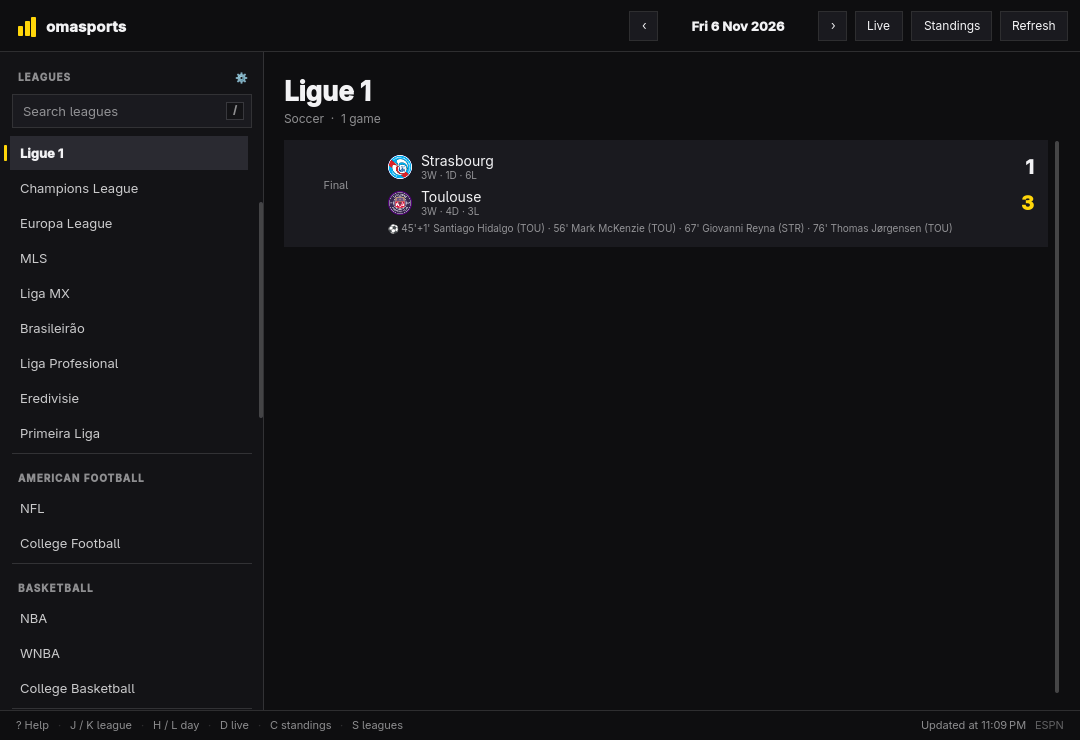
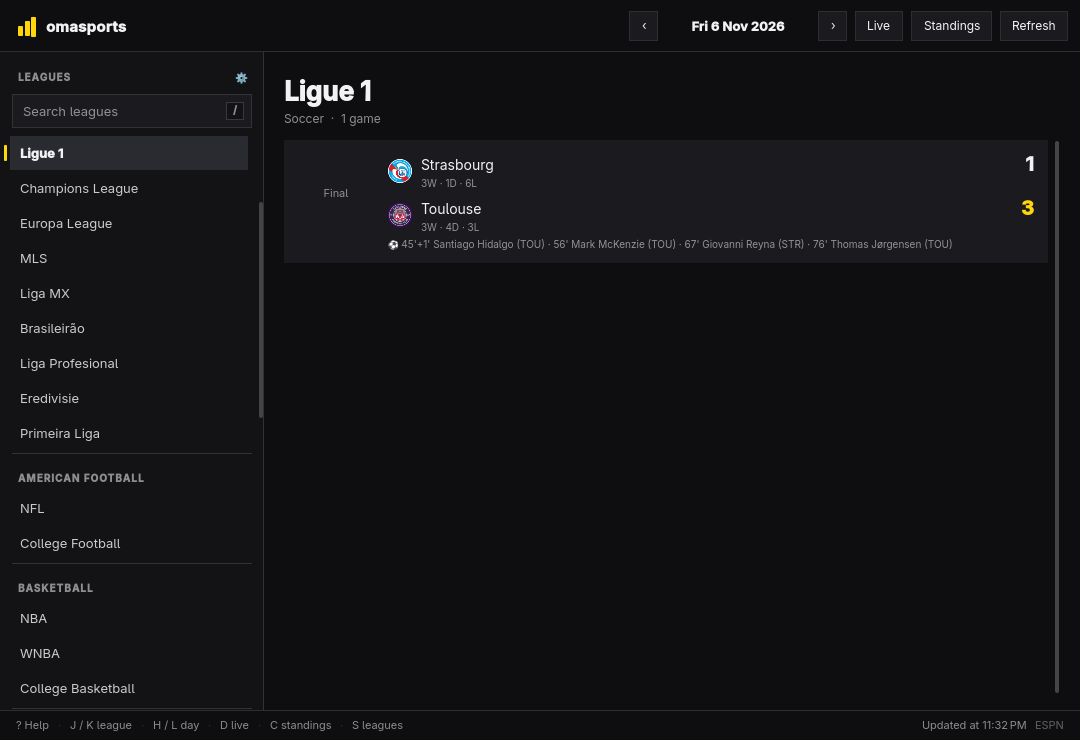
Align scores with the team name line

Changed region(s): [[0.3056, 0.1865, 0.8861, 0.3419], [0.8556, 0.9635, 0.9472, 0.9946], [0.9472, 0.2486, 0.9778, 0.2797]]

diff --git a/src/EventCard.qml b/src/EventCard.qml
@@ -113,12 +113,26 @@ Rectangle {
                             Layout.fillWidth: true
                             spacing: 0
 
-                            Text {
+                            RowLayout {
                                 Layout.fillWidth: true
-                                text: modelData.name
-                                color: theme.foreground
-                                font.pixelSize: 14
-                                elide: Text.ElideRight
+                                spacing: 8
+
+                                Text {
+                                    Layout.fillWidth: true
+                                    text: modelData.name
+                                    color: theme.foreground
+                                    font.pixelSize: 14
+                                    elide: Text.ElideRight
+                                }
+
+                                Text {
+                                    Layout.preferredWidth: 46
+                                    horizontalAlignment: Text.AlignRight
+                                    text: card.modelData.state === "pre" ? "" : modelData.score
+                                    color: modelData.winner ? theme.accent : theme.foreground
+                                    font.pixelSize: 20
+                                    font.bold: true
+                                }
                             }
 
                             Text {
@@ -129,16 +143,6 @@ Rectangle {
                                 font.pixelSize: 10
                                 elide: Text.ElideRight
                             }
-                        }
-
-                        Text {
-                            Layout.preferredWidth: 46
-                            Layout.alignment: Qt.AlignVCenter
-                            horizontalAlignment: Text.AlignRight
-                            text: card.modelData.state === "pre" ? "" : modelData.score
-                            color: modelData.winner ? theme.accent : theme.foreground
-                            font.pixelSize: 20
-                            font.bold: true
                         }
                     }
                 }
